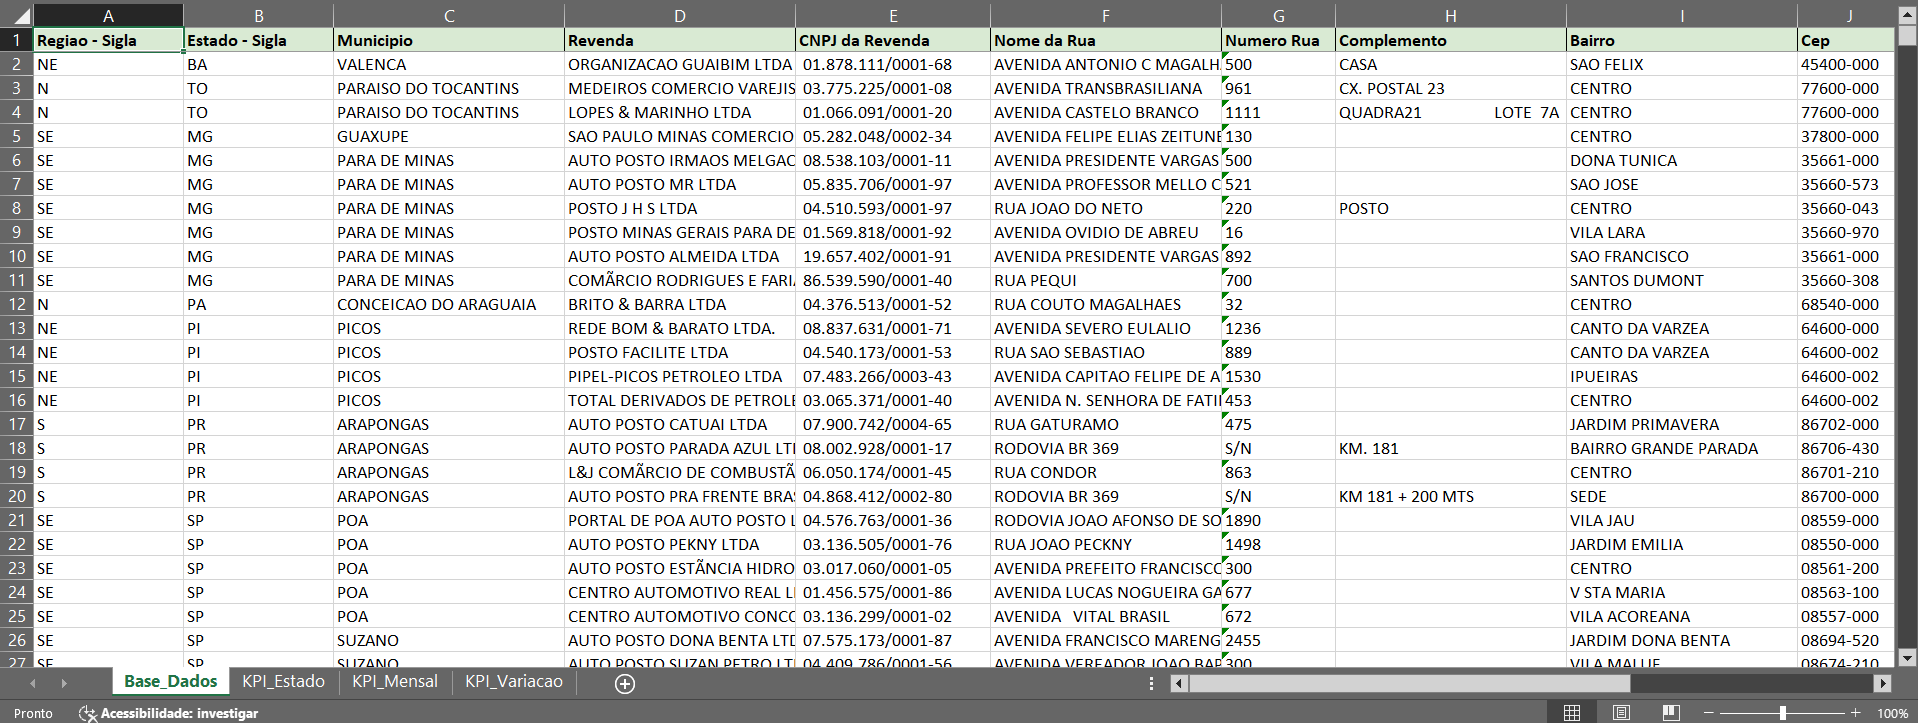
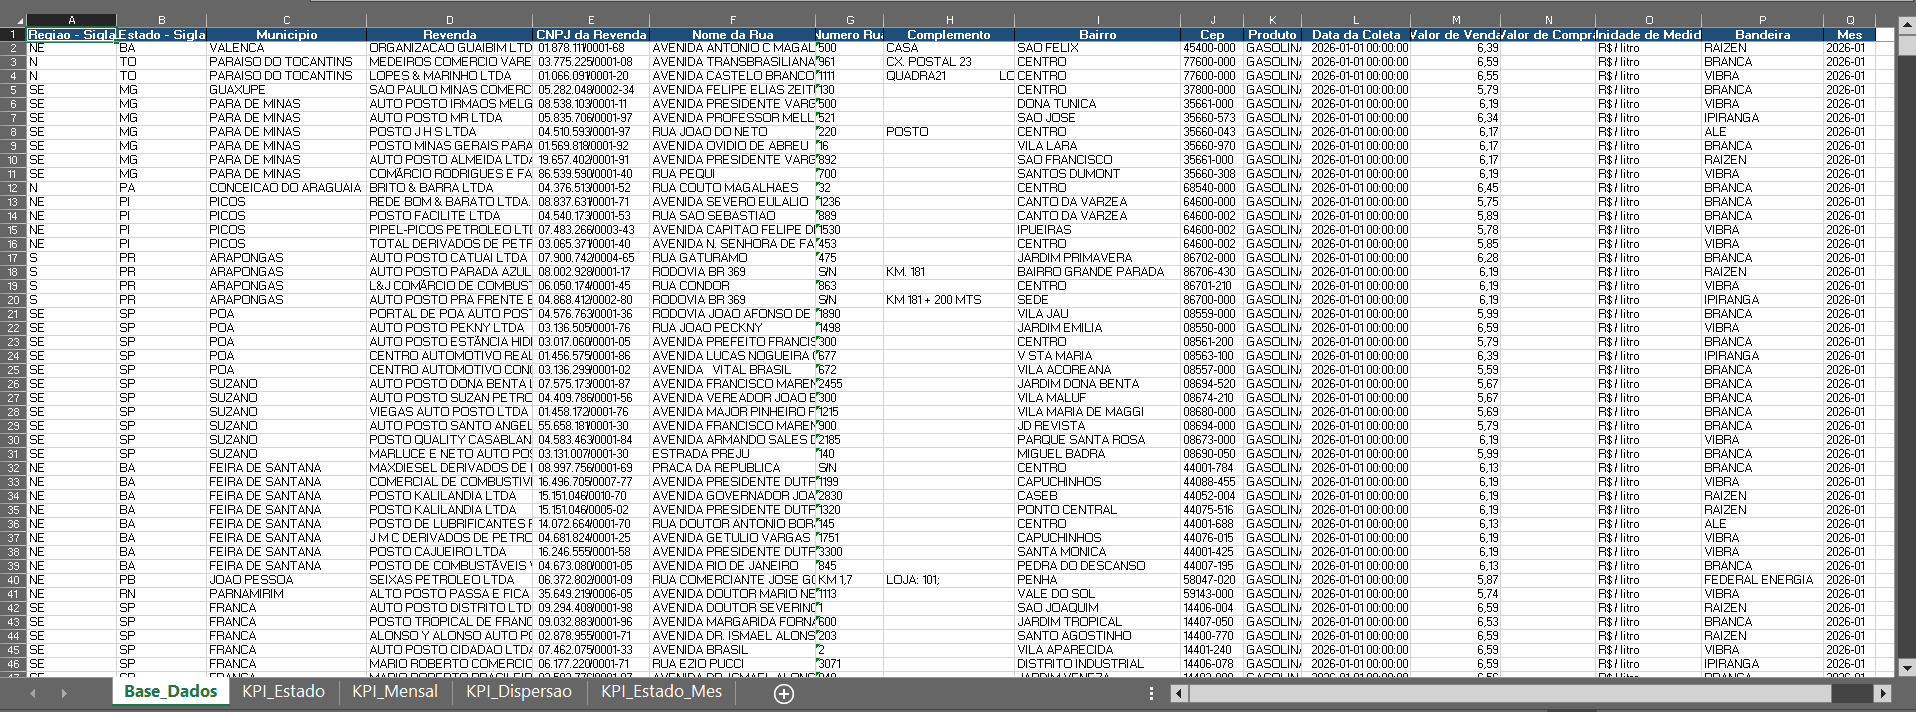
feat: finalize README with validated insights and business analysis

diff --git a/scripts/transform_anp_data.py b/scripts/transform_anp_data.py
@@ -92,16 +92,16 @@ df = df[
     df["Produto"]
     .astype(str)
     .str.upper()
-    .str.contains("GASOLINA", na=False)
+    .str.strip() == "GASOLINA"
 ].copy()
 
 if df.empty:
     raise ValueError(
-        "Nenhum registro encontrado contendo 'GASOLINA'. "
+        "Nenhum registro encontrado para 'GASOLINA'. "
         "Verifique os valores da coluna Produto nos arquivos brutos."
     )
 
-print("\nFiltro aplicado: produtos contendo 'GASOLINA'")
+print("\nFiltro aplicado: somente GASOLINA")
 print(f"Dimensão após filtro: {df.shape}")
 
 # ============================================================
@@ -135,16 +135,11 @@ print(f"Dimensão após remoção de valores inválidos: {df.shape}")
 # TRATAR DATA DA COLETA
 # ============================================================
 
-try:
-    df["Data da Coleta"] = pd.to_datetime(
-        df["Data da Coleta"],
-        format="%d/%m/%Y",
-        errors="coerce"
-    )
-except Exception as e:
-    raise ValueError(
-        f"Erro ao converter 'Data da Coleta'. Detalhe: {e}"
-    )
+df["Data da Coleta"] = pd.to_datetime(
+    df["Data da Coleta"],
+    format="%d/%m/%Y",
+    errors="coerce"
+)
 
 datas_invalidas = df["Data da Coleta"].isnull().sum()
 if datas_invalidas > 0:
@@ -284,8 +279,8 @@ df_estado_export.columns = ["Estado - Sigla", "Valor de Venda"]
 df_mensal_export = preco_medio_mes.reset_index()
 df_mensal_export.columns = ["Mes", "Valor de Venda"]
 
-df_variacao_export = dispersao_estado.reset_index()
-df_variacao_export.columns = ["Estado - Sigla", "Desvio Padrao"]
+df_dispersao_export = dispersao_estado.reset_index()
+df_dispersao_export.columns = ["Estado - Sigla", "Desvio Padrao"]
 
 df_estado_mes_export = preco_estado_mes.reset_index()
 df_estado_mes_export.columns = ["Estado - Sigla", "Mes", "Valor de Venda"]
@@ -301,7 +296,7 @@ with pd.ExcelWriter(OUTPUT_FILE, engine="xlsxwriter") as writer:
     df.to_excel(writer, sheet_name="Base_Dados", index=False)
     df_estado_export.to_excel(writer, sheet_name="KPI_Estado", index=False)
     df_mensal_export.to_excel(writer, sheet_name="KPI_Mensal", index=False)
-    df_variacao_export.to_excel(writer, sheet_name="KPI_Dispersao", index=False)
+    df_dispersao_export.to_excel(writer, sheet_name="KPI_Dispersao", index=False)
     df_estado_mes_export.to_excel(writer, sheet_name="KPI_Estado_Mes", index=False)
 
     workbook = writer.book
@@ -333,18 +328,17 @@ with pd.ExcelWriter(OUTPUT_FILE, engine="xlsxwriter") as writer:
         for col_num, value in enumerate(dataframe.columns):
             worksheet.write(0, col_num, value, header_format)
 
-        # Formatar moeda, se existir coluna de valor monetário
-        colunas_monetarias = ["Valor de Venda"]
-        for coluna in colunas_monetarias:
-            if coluna in dataframe.columns:
-                col_idx = dataframe.columns.get_loc(coluna)
-                worksheet.set_column(col_idx, col_idx, 14, currency_format)
+        # Formatar moeda, se existir coluna monetária
+        if "Valor de Venda" in dataframe.columns:
+            col_idx = dataframe.columns.get_loc("Valor de Venda")
+            worksheet.set_column(col_idx, col_idx, 14, currency_format)
 
         # Ajustar largura das colunas
         for i, col in enumerate(dataframe.columns):
+            valores_como_texto = dataframe[col].fillna("").astype(str)
             max_len = max(
                 len(str(col)),
-                dataframe[col].astype(str).map(len).max()
+                valores_como_texto.str.len().max()
             )
             worksheet.set_column(i, i, min(max_len + 2, 30))
 
@@ -352,7 +346,7 @@ with pd.ExcelWriter(OUTPUT_FILE, engine="xlsxwriter") as writer:
     formatar_aba(writer.sheets["Base_Dados"], df)
     formatar_aba(writer.sheets["KPI_Estado"], df_estado_export)
     formatar_aba(writer.sheets["KPI_Mensal"], df_mensal_export)
-    formatar_aba(writer.sheets["KPI_Dispersao"], df_variacao_export)
+    formatar_aba(writer.sheets["KPI_Dispersao"], df_dispersao_export)
     formatar_aba(writer.sheets["KPI_Estado_Mes"], df_estado_mes_export)
 
 print("\nRelatório Excel gerado com sucesso.")

diff --git a/README.md b/README.md
@@ -1,86 +1,102 @@
 # ANP Fuel Price Report Automation
 
-Automação de análise de preços de combustíveis com Python utilizando
-dados públicos da ANP.
+Automação de análise de preços de combustíveis com Python utilizando dados públicos da ANP.
 
-Este projeto foi desenvolvido para transformar arquivos brutos da ANP em
-uma base tratada e em um relatório final em Excel, reduzindo trabalho
-manual e aumentando a consistência do processo de análise.
+Este projeto transforma arquivos brutos da ANP em uma base tratada e um relatório analítico em Excel, reduzindo trabalho manual e aumentando a consistência da análise.
 
-------------------------------------------------------------------------
+---
 
 ## Problema
 
-Acompanhar preços de combustíveis com dados públicos normalmente exige
-etapas manuais repetitivas, como:
+Bases públicas como as da ANP não vêm prontas para análise.
 
--   leitura de múltiplos arquivos CSV
--   consolidação da base
--   padronização de colunas
--   tratamento de datas e valores numéricos
--   organização da saída final para análise
+Antes de qualquer insight, é necessário:
 
-Esse processo é demorado, sujeito a erro e dificulta análises
-recorrentes.
+- consolidar múltiplos arquivos
+- padronizar colunas
+- tratar valores inconsistentes
+- corrigir formatos de data e número
 
-------------------------------------------------------------------------
+Esse processo manual é demorado, sujeito a erro e dificulta análises recorrentes.
+
+---
 
 ## Solução
 
-O projeto automatiza o pipeline de dados com Python, realizando:
+Foi desenvolvido um pipeline automatizado em Python que:
 
--   leitura de múltiplos arquivos CSV da ANP
--   consolidação da base em um único DataFrame
--   limpeza e padronização dos dados
--   filtro dos registros de gasolina
--   tratamento de valores inválidos
--   conversão de datas e preços
--   remoção de outliers
--   cálculo de indicadores
--   geração automática de relatório em Excel
+- lê múltiplos arquivos CSV da ANP
+- consolida os dados em uma única base
+- realiza limpeza e padronização
+- filtra apenas registros de gasolina
+- trata valores inválidos
+- converte datas e preços
+- remove outliers
+- calcula indicadores
+- gera automaticamente um relatório em Excel
 
-------------------------------------------------------------------------
+---
 
 ## Pipeline
 
 data/raw → data/processed → output
 
-------------------------------------------------------------------------
+---
 
 ## Dataset
 
--   Fonte: ANP (Agência Nacional do Petróleo)
--   Produto analisado: Gasolina
--   Origem dos arquivos: CSVs públicos da ANP
+- Fonte: ANP (Agência Nacional do Petróleo)
+- Produto analisado: Gasolina
+- Período analisado: Jan/2026 a Fev/2026
+- Registros finais após tratamento: 33.942
 
-------------------------------------------------------------------------
+---
 
 ## Principais análises
 
--   preço médio por estado
--   evolução mensal dos preços
--   dispersão de preços por estado
--   análise por estado e período
+O relatório foi estruturado para responder:
 
-------------------------------------------------------------------------
+- qual o preço médio da gasolina por estado
+- como o preço evolui ao longo do tempo
+- quais estados apresentam maior variação de preços
+- como o comportamento muda por estado e período
+
+---
+
+## Principais descobertas
+
+- Estados da região Norte apresentaram os maiores preços médios, com destaque para AM (~6,95), RO (~6,91) e RR (~6,90)
+
+- Houve leve queda no preço médio entre janeiro e fevereiro de 2026 (de 6,3119 para 6,3004)
+
+- Estados como PA, AL e MA apresentaram maior dispersão de preços, indicando maior variação interna
+
+- São Paulo apresentou preço médio inferior (6,17), sugerindo maior estabilidade e competitividade no mercado
+
+---
 
 ## Entregas
 
--   Base tratada em CSV
--   Relatório Excel com abas:
-    -   Base_Dados
-    -   KPI_Estado
-    -   KPI_Mensal
-    -   KPI_Variacao
+- Base tratada em CSV
+- Relatório Excel com abas:
+  - Base_Dados
+  - KPI_Estado
+  - KPI_Mensal
+  - KPI_Dispersao
+  - KPI_Estado_Mes
 
-------------------------------------------------------------------------
+---
 
 ## Estrutura do projeto
 
-anp-fuel-price-report-automation/ ├── assets/ ├── data/ ├── scripts/ ├──
-README.md
+anp-fuel-price-report-automation/
+├── assets/
+├── data/
+├── scripts/
+├── output/
+└── README.md
 
-------------------------------------------------------------------------
+---
 
 ## Como executar
 
@@ -88,7 +104,7 @@ pip install -r requirements.txt
 
 python scripts/transform_anp_data.py
 
-------------------------------------------------------------------------
+---
 
 ## Screenshots
 
@@ -96,25 +112,28 @@ python scripts/transform_anp_data.py
 ![KPI_Estado](assets/excel_kpi_estado.png)
 ![KPI_Mensal](assets/excel_kpi_mensal.png)
 
-------------------------------------------------------------------------
+---
 
 ## Tecnologias
 
--   Python
--   pandas
--   xlsxwriter
--   openpyxl
+- Python
+- pandas
+- xlsxwriter
+- openpyxl
 
-------------------------------------------------------------------------
+---
 
 ## Aprendizados
 
--   preparação de dados é a etapa mais crítica
--   automação reduz erro manual
--   consistência entre dados e output é essencial
+- a maior parte do trabalho em dados está na preparação da base
+- automação só gera valor com lógica consistente
+- dados não tratados levam a análises erradas
+- consistência entre métricas é essencial
 
-------------------------------------------------------------------------
+---
 
 ## Autor
 
 Raphael Guardiano
+
+Projeto desenvolvido como parte da transição para a área de análise de dados, com foco em automação e geração de insights a partir de dados reais.
